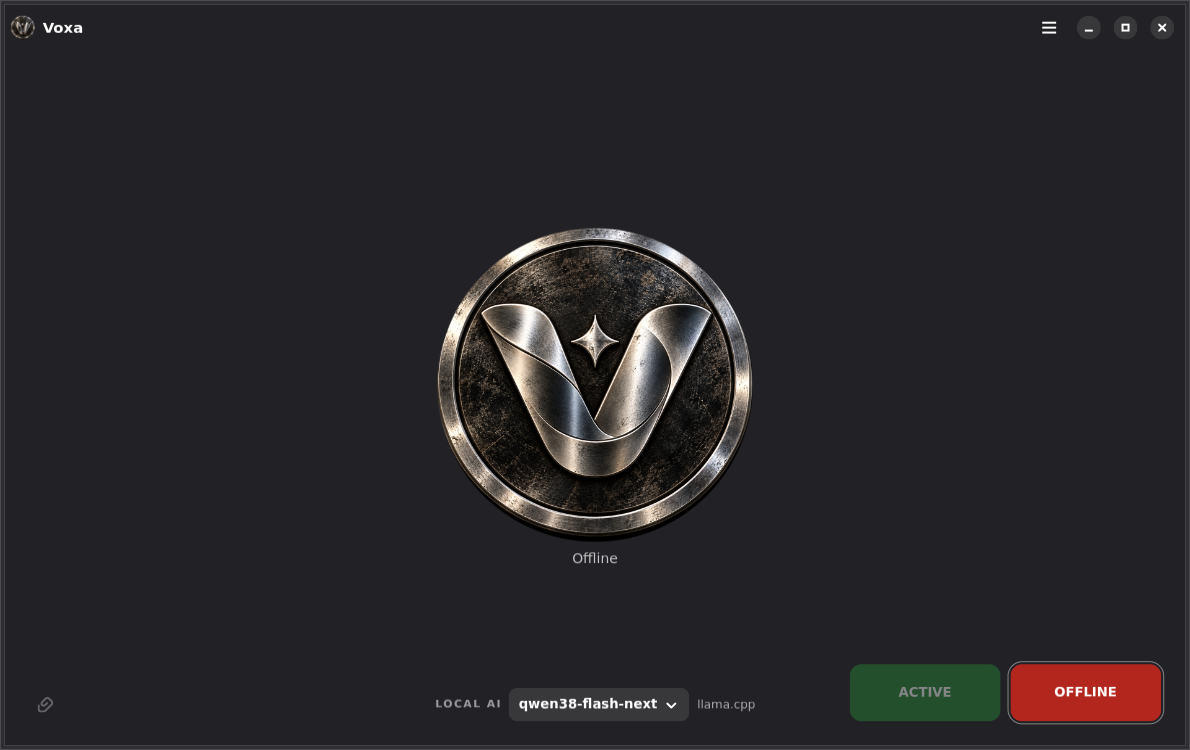
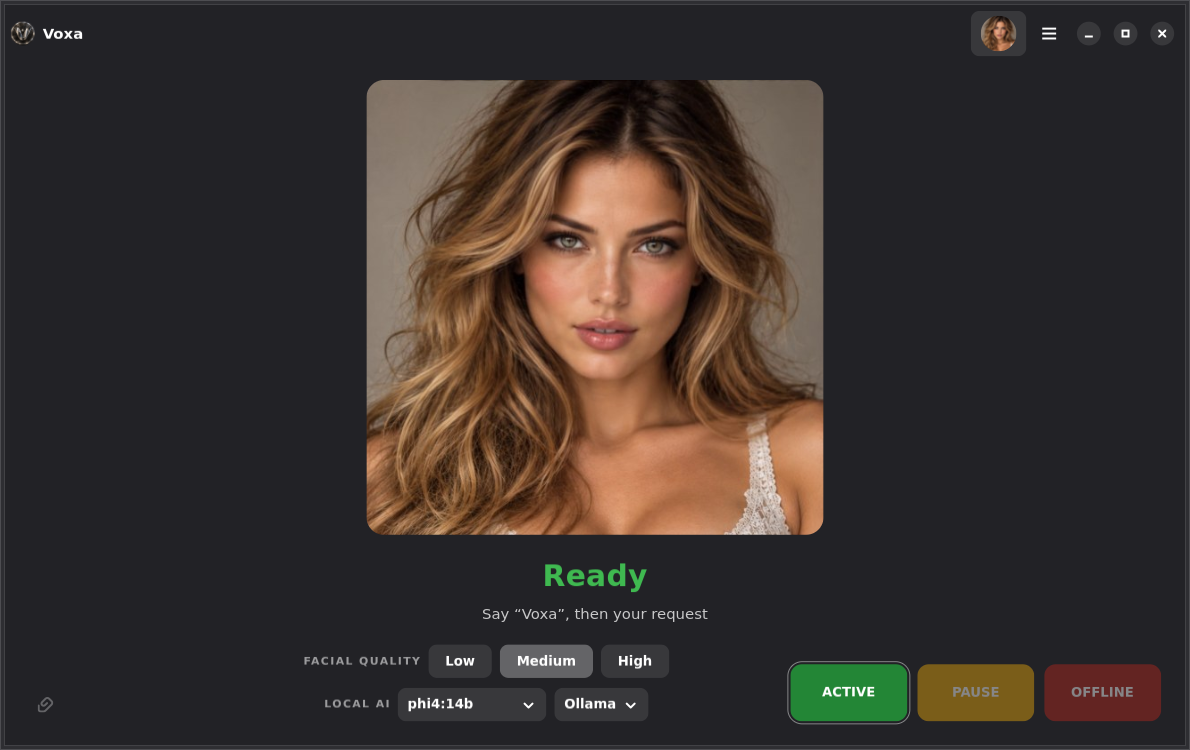
Voxa 0.1.5
Photoreal characters with word-timed lip movement and a facial-quality switch, speaking while the answer is
written, voice actions (apps, music and video, reminders, browsing, cheapest-deal searches, directions),
web search with sources, a PAUSE state, echo cancellation, reply languages, Strata as a backend.
New screenshots, release notes and website copy.

diff --git a/website/index.html b/website/index.html
@@ -42,27 +42,27 @@
     </section>
 
     <section id="features" class="features wrap">
-      <article><b>01</b><h3>Speak naturally</h3><p>Voice is the primary interface. Voxa listens, transcribes, responds, and keeps the interaction focused on the assistant—not a chat box.</p></article>
-      <article><b>02</b><h3>Run local models</h3><p>Choose local AI through Ollama or llama.cpp. Keep everyday assistant work close to the machine and under your control.</p></article>
-      <article><b>03</b><h3>See what it's doing</h3><p>A task-oriented interface surfaces active work, state, model selection, choices, attachments, and explicit ACTIVE/OFFLINE control.</p></article>
-      <article><b>04</b><h3>Grow into actions</h3><p>Voxa is evolving from conversation into a structured desktop agent with bounded skills, permissions, confirmations, and auditable tasks.</p></article>
+      <article><b>01</b><h3>Speak naturally</h3><p>Voice is the primary interface. Say “Voxa”, ask, and it starts answering while it is still thinking—through one of 22 photoreal characters whose lips follow the words.</p></article>
+      <article><b>02</b><h3>Run local models</h3><p>Choose local AI through Ollama, llama.cpp or Strata. Keep everyday assistant work close to the machine and under your control.</p></article>
+      <article><b>03</b><h3>See what it's doing</h3><p>The screen always tells the truth: Ready, Listening, Thinking, Speaking or Paused, with explicit ACTIVE / PAUSE / OFFLINE control.</p></article>
+      <article><b>04</b><h3>Get things done</h3><p>Open and close apps, play music and video, browse, set reminders, get directions, or say “get me the cheapest ticket to Hawaii” and see the real search, cheapest first, from where you are.</p></article>
     </section>
 
     <section class="showcase wrap" id="local">
       <div class="shot-frame">
         <div class="shot-top"><span></span><span></span><span></span><small>Voxa</small></div>
-        <img src="/docs/screenshots/new-layout-preview.png" alt="Voxa assistant shell preview">
+        <img src="/docs/screenshots/new-layout-preview.png" alt="Voxa with one of its photoreal characters, waiting for the wake word">
       </div>
       <div class="showcase-copy"><p class="eyebrow">BUILT FOR THE DESKTOP</p><h2>Not another browser tab.</h2><p>Voxa is a native Linux application with a dedicated assistant shell, task state, model controls, voice input, and a renderer-independent avatar system.</p><p class="muted">New screenshots and media are coming soon. This section is deliberately structured so the latest product photography can be dropped in without redesigning the page.</p></div>
     </section>
 
     <section class="local-band">
-      <div class="wrap local-grid"><div><p class="eyebrow">LOCAL AI</p><h2>Your hardware is part of the product.</h2></div><div><p>Use the models that make sense for your machine. Voxa supports local backends today and is being structured so backend choice stays separate from the assistant experience.</p><div class="chips"><span>Ollama</span><span>llama.cpp</span><span>Local models</span><span>Linux</span></div></div></div>
+      <div class="wrap local-grid"><div><p class="eyebrow">LOCAL AI</p><h2>Your hardware is part of the product.</h2></div><div><p>Use the models that make sense for your machine. Voxa supports local backends today and is being structured so backend choice stays separate from the assistant experience.</p><div class="chips"><span>Ollama</span><span>llama.cpp</span><span>Strata</span><span>Local models</span><span>Linux</span></div></div></div>
     </section>
 
     <section id="roadmap" class="roadmap wrap">
       <p class="eyebrow">WHERE VOXA IS GOING</p><h2>From voice assistant to trusted desktop agent.</h2>
-      <div class="steps"><article class="done"><span>01</span><h3>Assistant shell</h3><p>State, tasks, model selection, ACTIVE/OFFLINE control and the new centered assistant experience.</p></article><article class="now"><span>02</span><h3>Agent foundation</h3><p>Structured capabilities, backend abstraction, permission policy, confirmations and safe tools.</p></article><article><span>03</span><h3>Desktop skills</h3><p>Files, applications, communications and Spaced Linux integration through explicit capabilities.</p></article></div>
+      <div class="steps"><article class="done"><span>01</span><h3>Assistant shell</h3><p>State, tasks, model selection, ACTIVE/OFFLINE control and the new centered assistant experience.</p></article><article class="done"><span>02</span><h3>Agent foundation</h3><p>Structured capabilities, backend abstraction, permission policy, confirmations and safe tools.</p></article><article class="now"><span>03</span><h3>Desktop skills</h3><p>Files, applications, communications and Spaced Linux integration through explicit capabilities.</p></article></div>
     </section>
 
     <section id="install" class="cta wrap"><div><p class="eyebrow">EARLY DEVELOPMENT</p><h2>Help build the Linux assistant we want to use.</h2><p>Voxa is open source and moving quickly. Follow development, test the current build, report rough edges, or contribute code and ideas.</p></div><div class="actions"><a class="button primary large" href="https://github.com/crhy/voxa/releases/latest">Download latest release →</a><a class="button large" href="https://github.com/crhy/voxa">Explore crhy/voxa</a></div></section>

diff --git a/tools/fake_face_server.py b/tools/fake_face_server.py
@@ -87,10 +87,13 @@ def _synthetic_jpeg(index, size):
     return buf.getvalue()
 
 
+PORTRAITS = Path(__file__).resolve().parents[1] / "voxa" / "ui" / "assets" / "portraits"
+
+
 def _characters():
-    if not PACK_ROOT.is_dir():
-        return []
-    return sorted(d.name for d in PACK_ROOT.iterdir() if d.is_dir())
+    """Characters with a face pack; on a machine without packs, the bundled portraits (frames are then the portrait)."""
+    names = sorted(p.name for p in PACK_ROOT.iterdir() if (p / "index.json").exists()) if PACK_ROOT.is_dir() else []
+    return names or sorted(p.stem for p in PORTRAITS.glob("*.jpg"))
 
 
 def _handle_connection(conn, delay_ms):
@@ -151,6 +154,9 @@ def _send_frames(conn, uid, utterances, delay_ms):
             jpeg = Path(path).read_bytes()
         else:
             jpeg = _synthetic_jpeg(index, size)
+            if not jpeg:  # no Pillow here: the bundled portrait is a perfectly good frame for a stand-in
+                portrait = PORTRAITS / f"{entry['character']}.jpg"
+                jpeg = portrait.read_bytes() if portrait.exists() else b""
         conn.sendall(encode(
             {"op": "frame", "id": uid, "index": index},
             jpeg,

diff --git a/tests/test_ui_photo_face.py b/tests/test_ui_photo_face.py
@@ -4,8 +4,10 @@ from __future__ import annotations
 
 import pytest
 
-from voxa.ui.face_pack import FacePack, MouthFrame
-from voxa.ui.photo_face import FrameCache, PhotoFaceRenderer, compose
+pytest.importorskip("gi")  # the renderer needs GTK; machines without it skip this file
+
+from voxa.ui.face_pack import FacePack, MouthFrame  # noqa: E402
+from voxa.ui.photo_face import FrameCache, PhotoFaceRenderer, compose  # noqa: E402
 
 
 def _fake_pack() -> FacePack:

diff --git a/voxa/__init__.py b/voxa/__init__.py
@@ -2,5 +2,5 @@
 
 APP_ID = "io.github.crhy.voxa"
 APP_NAME = "Voxa"
-APP_VERSION = "0.1.4"  # the one place the version is written; see tools/release_check.py
+APP_VERSION = "0.1.5"  # the one place the version is written; see tools/release_check.py
 __version__ = APP_VERSION

diff --git a/README.md b/README.md
@@ -25,7 +25,7 @@ Voxa combines on-device speech recognition, selectable local AI backends, spoken
 - **Real assistant state** coordinated through `AssistantModel` and `AssistantController`.
 - **Task-oriented UI** rather than a conventional permanent chat interface.
 - **Desktop capabilities** for applications, documents, mail and web-oriented workflows as the capability system develops.
-- **Reactive assistant presence** plus an experimental OpenGL/GLB 3D renderer with a safe static fallback.
+- **A face**: 22 photoreal characters with word-timed lip movement, a Low / Medium / High facial-quality switch, and an optional neural face on a graphics card.
 - **Hardware-aware model suggestions** based on available VRAM/RAM.
 - **Flatpak-first distribution** with CI validation and an update repository.
 
